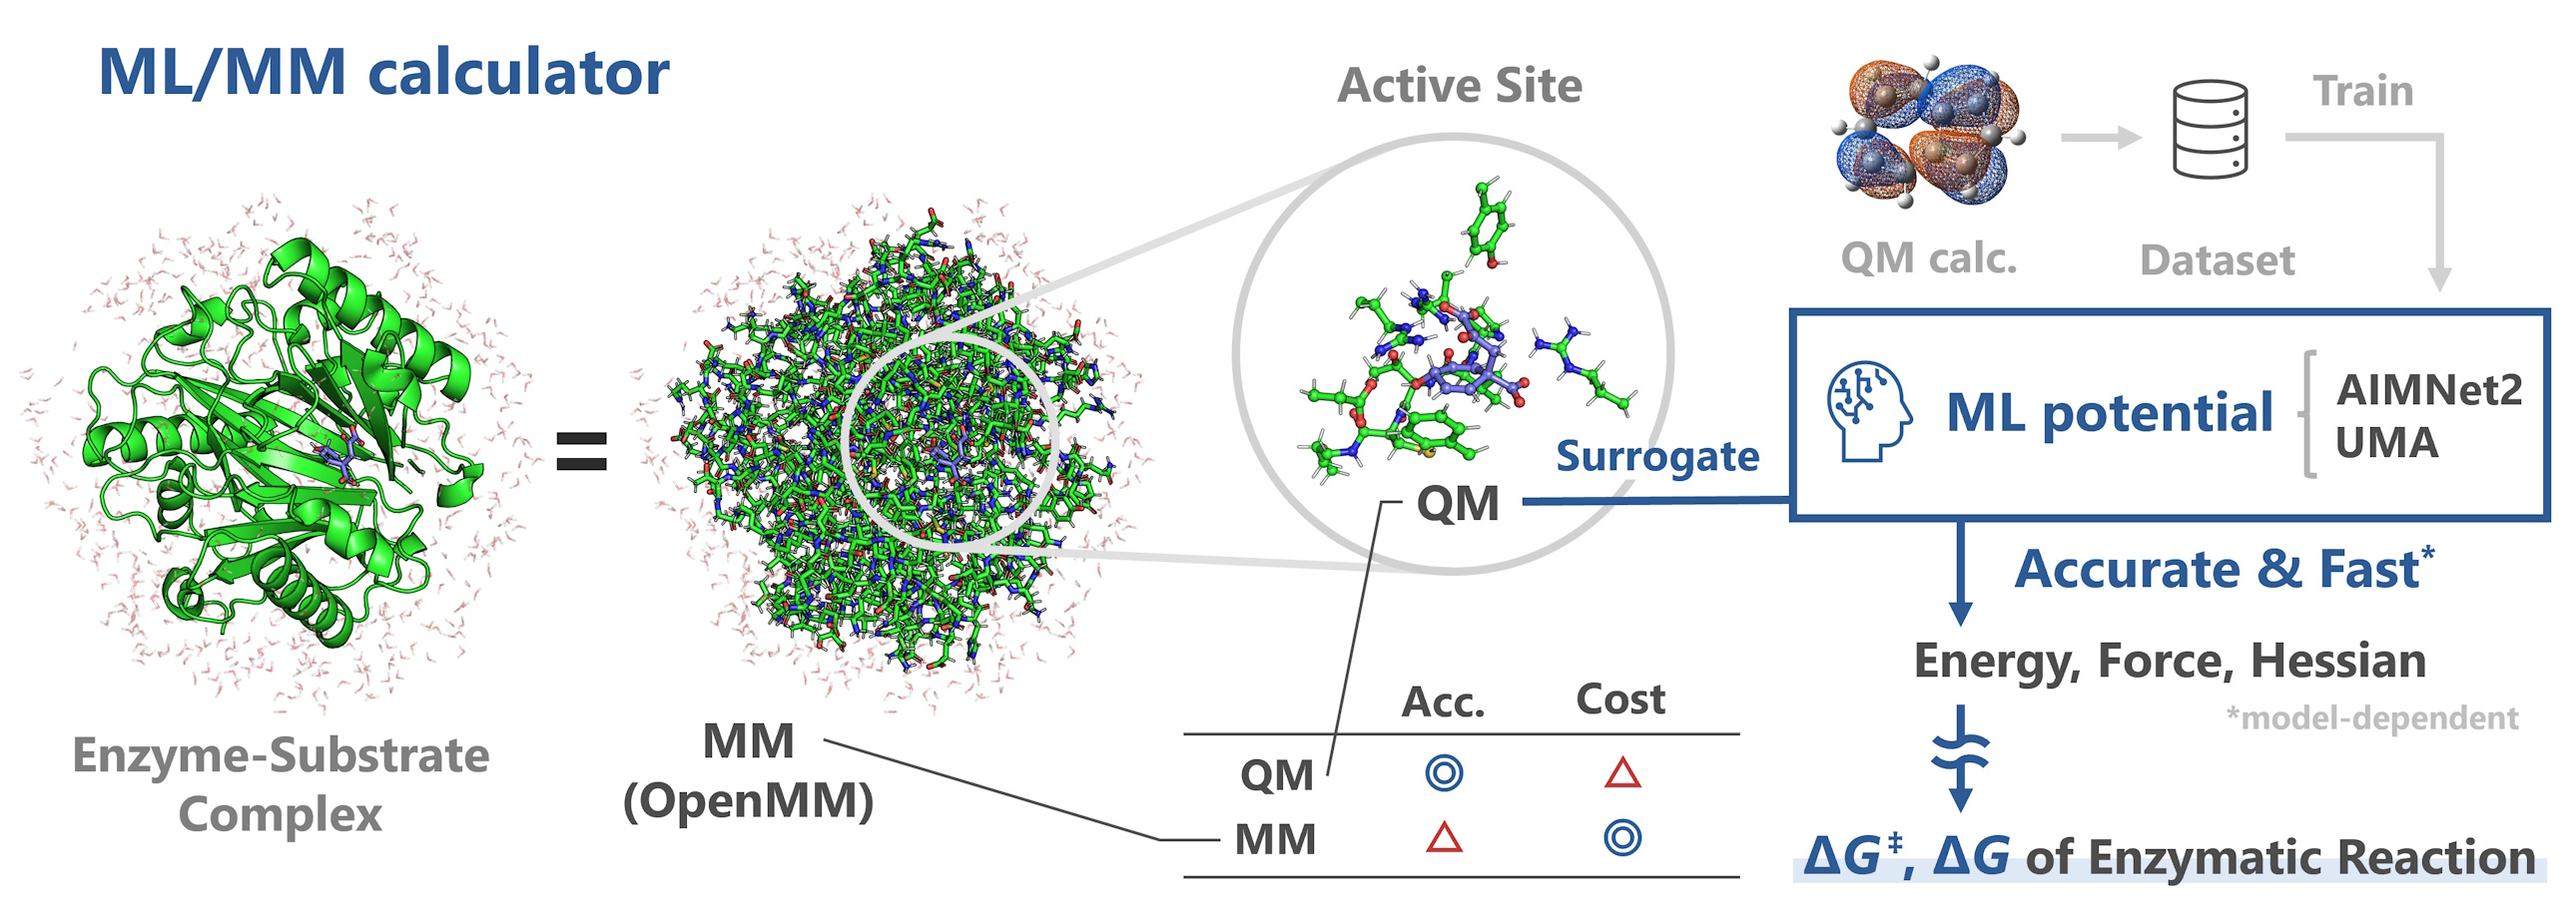
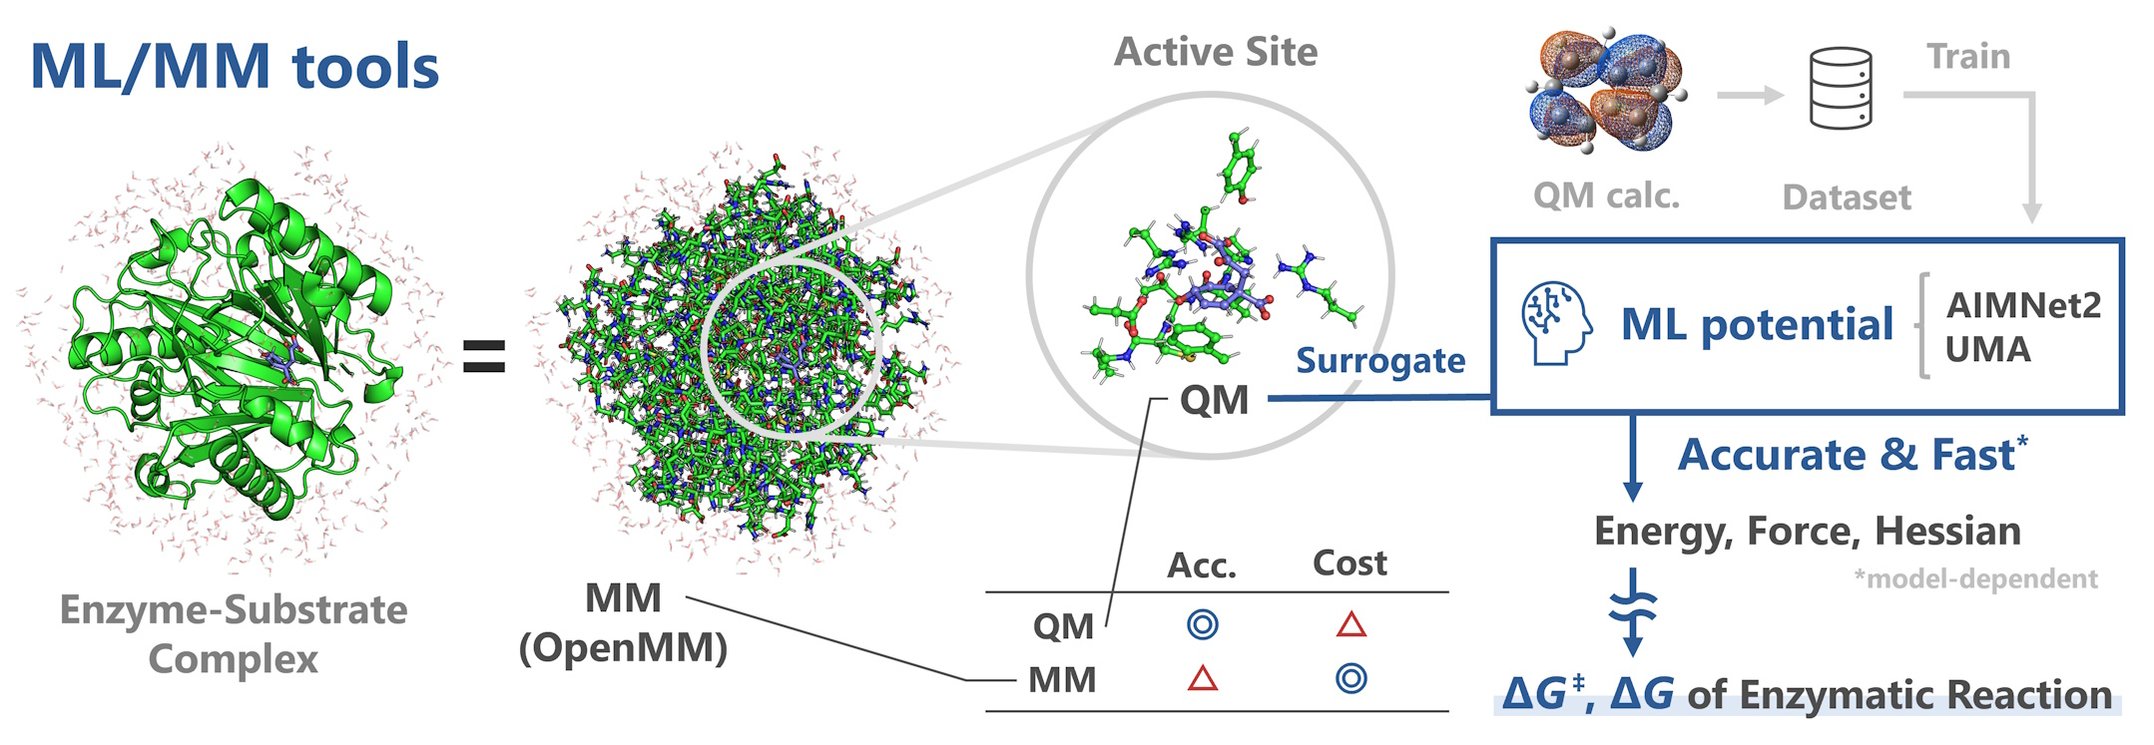
revise image and typo

diff --git a/mlmm/partial_hessian_dimer.py b/mlmm/partial_hessian_dimer.py
@@ -546,13 +546,13 @@ class PartialHessianDimer:
         if self.max_cycles_preopt == 0:
             # 0  no pre-opt
             # ---------------------------------------------------------------------
-            print("\n>>> No pre-optimisation\n")
+            print("\n>>> No pre-optimization\n")
             self.geom.freeze_atoms = self.freeze_atoms_static.copy()
             torch.cuda.empty_cache()
         else:
             # 0  pre-opt
             # ---------------------------------------------------------------------
-            print("\n>>> Pre-optimisation\n")
+            print("\n>>> Pre-optimization\n")
             calc_pre = MLMM(out_hess_torch=False, **self.mlmm_kwargs)
             ml_idx = list(getattr(calc_pre, "selection_indices",
                                 getattr(calc_pre, "core").selection_indices))

diff --git a/README.md b/README.md
@@ -4,9 +4,9 @@
 
 <img src="./MLMM_overview.jpg" alt="Overview of ML/MM calculator" width="100%">  
 
-Quantum mechanics/molecular mechanics (QM/MM) methods have long been used to analyze enzyme reaction mechanisms in *silico* by tracking the energy changes that accompany chemical reactions. While treating the active site with QM and the remainder with MM yields atomic-level insight, the high computational cost of the QM layer is a major limitation. Replacing the QM layer with machine-learning (ML) interatomic potentials while preserving accuracy gives rise to ML/MM methods, which offer substantial speedups.
+Quantum mechanics/molecular mechanics (QM/MM) methods have long been used to analyze enzymatic reaction mechanisms *in silico*. While treating the active site with QM and the remainder with MM yields atomic-level insight, the high computational cost of the QM layer is a major limitation. Replacing the QM region with machine-learning (ML) interatomic potentials yields ML/MM approaches that retain accuracy while greatly reducing cost.
 
-This **ML/MM calculator** employs AIMNet2 or UMA potentials, supports link atoms (allowing amino‑acid residues to be included in the ML region), and can output full-system Hessians. In addition, to curb the expense of transition-state searches in systems containing thousands of atoms, a Partial Hessian Dimer (**Ph-Dimer**) algorithm relies on partial Hessians restricted to the active-site region. Moreover, a command-line interface streamlines the entire workflow—from an enzyme–substrate complex to the evaluation of ($\Delta G$) and ($\Delta G^{\ddagger}$). The toolset presented here enables faster and more straightforward analyses of enzyme reaction mechanisms.
+Here, we present **ML/MM tools**, an open-source command-line toolkit centered on an ML/MM calculator that employs AIMNet2 or UMA potentials. The toolkit streamlines the workflow: starting from an enzyme–substrate complex, it produces the reaction free energy ($\Delta G$) and activation free energy ($\Delta G^{\ddagger}$). Because the calculator implements link-atom boundary treatment, amino-acid residues may be included in the ML region, and full-system Hessians can be generated for transition-state (TS) searches and vibrational analyses. To accelerate TS searches in systems of up to around 10,000 atoms, we also integrate a *Partial-Hessian Dimer (PH-Dimer)* approach that updates only the active-site Hessian and suppresses spurious imaginary modes via a mass-scaled flattening loop. Collectively, ML/MM tools make enzymatic mechanistic investigation markedly more accessible.
 
 ---
 

diff --git a/docs/code_and_cli.md b/docs/code_and_cli.md
@@ -135,12 +135,12 @@ partial_hessian_dimer config.yml
 The script drives a **mixed ML/MM transition-state search** that combines  
 
 1. *Partial* Hessians (ML region + nearby MM; distant MM rows/cols = 0)  
-2. Periodic Dimer optimisation (loose → final thresholds)  
+2. Periodic Dimer optimization (loose → final thresholds)  
 3. A **mass-scaled multi-mode flatten loop** that flattens extra imaginary modes  
     until only the transition-state mode remains.
 
 Before launching the Dimer loops the geometry of **MM region** is relaxed with LBFGS. The
-cycle limit for this pre-optimisation is controlled by `dimer.max_cycles_preopt`
+cycle limit for this pre-optimization is controlled by `dimer.max_cycles_preopt`
 (defaults to `dimer.max_cycles`).
 
 ---
@@ -152,7 +152,7 @@ cycle limit for this pre-optimisation is controlled by `dimer.max_cycles_preopt`
 | **geom.fn** | `./coord/gs_hei.xyz` | Input geometry (`.xyz` or `.pdb`) |
 | **geom.freeze_atoms** | `[]` | List of indices kept fixed *throughout* |
 | **geom.real_pdb** | `./parm/complex.pdb` | Template for PDB overlays |
-| **misc.out_dir** | `./dump/dimer/` | Optimisation output directory |
+| **misc.out_dir** | `./dump/dimer/` | optimization output directory |
 | **misc.vib_dir** | `./dump/vib/` | Directory for vibrational analysis |
 | **misc.dump** | `false` | Write intermediate trajectories |
 | **dimer.thresh_loose** | `gau_loose` | Loose LBFGS tolerance |
